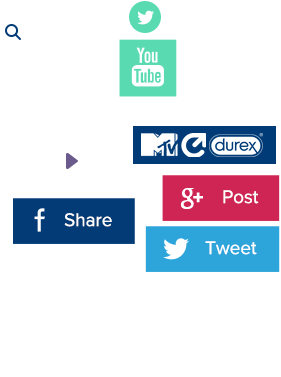
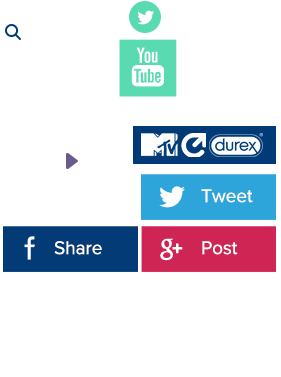
update sprites share

Changed region(s): [[0.0, 0.4377, 0.9964, 0.7294]]

diff --git a/wp-content/themes/durex/style.css b/wp-content/themes/durex/style.css
@@ -5474,18 +5474,18 @@ button.close {
     height: 38px;
     margin-bottom: 20px; }
   .sprites.fb-share {
-    background-position: -13px -198px;
-    width: 122px;
+    background-position: -3px -226px;
+    width: 135px;
     height: 46px;
     margin: 0 auto; }
   .sprites.twitter-share {
-    background-position: -146px -226px;
-    width: 133px;
+    background-position: -141px -174px;
+    width: 135px;
     height: 46px;
     margin: 0 auto; }
   .sprites.google-share {
-    background-position: -162px -175px;
-    width: 118px;
+    background-position: -141px -226px;
+    width: 135px;
     height: 46px;
     margin: 0 auto; }
   .sprites.home {
